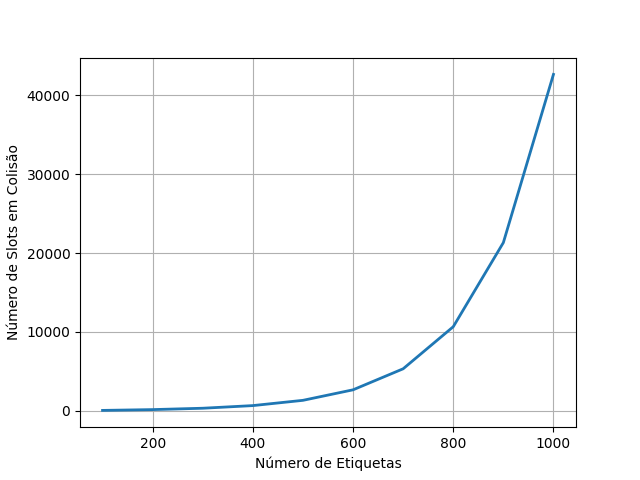
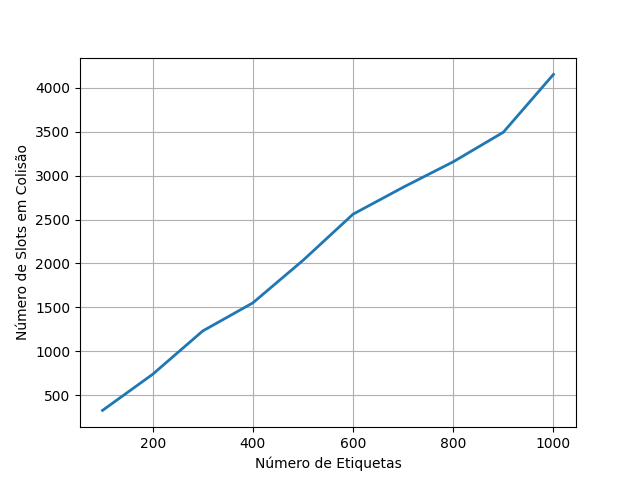
Update lower bound logic

diff --git a/core/estimators.py b/core/estimators.py
@@ -29,7 +29,6 @@ def simulate(
     list_average_time = []
 
     for index in range(1, int(max_tag_amount / initial_tag_amount) + 1):
-        # for index in range(int(max_tag_amount / initial_tag_amount)):
         tag_ammount = index * tag_increment_interval
         list_tags_interval.append(tag_ammount)
 
@@ -40,6 +39,7 @@ def simulate(
         average_time = 0
 
         for repetition in range(max_repetition):
+            frameSize = initial_frame_size
 
             start_time = time.time()
             if estimator == 0:
@@ -48,7 +48,7 @@ def simulate(
                     interaction_idles,
                     interaction_collisions,
                     interaction_success,
-                ) = lower_bound(tag_ammount, initial_frame_size)
+                ) = lower_bound(tag_ammount, frameSize)
                 average_slots += interaction_slots
                 average_idles += interaction_idles
                 average_collisions += interaction_collisions
@@ -59,21 +59,11 @@ def simulate(
             interaction_time = end_time - start_time
             average_time += interaction_time
 
-        list_average_slots.append(
-            sum(list_average_slots) + (average_slots / max_repetition)
-        )
-        list_average_idles.append(
-            sum(list_average_idles) + (average_idles / max_repetition)
-        )
-        list_average_collisions.append(
-            sum(list_average_collisions) + (average_collisions / max_repetition)
-        )
-        list_average_success.append(
-            sum(list_average_success) + (average_success / max_repetition)
-        )
-        list_average_time.append(
-            sum(list_average_time) + (average_time / max_repetition)
-        )
+        list_average_slots.append(average_slots / max_repetition)
+        list_average_idles.append(average_idles / max_repetition)
+        list_average_collisions.append(average_collisions / max_repetition)
+        list_average_success.append(average_success / max_repetition)
+        list_average_time.append(average_time / max_repetition)
 
         print(
             list_tags_interval,
@@ -142,8 +132,8 @@ def lower_bound(
     total_collisions = 0
     total_success = 0
 
-    slots = [0] * frameSize
-    while frameSize:
+    slots = [0] * 2000
+    while tag_ammount > 0:
         total_slots += frameSize
 
         # Fulfill slots
@@ -159,11 +149,11 @@ def lower_bound(
                 total_idles += 1
             elif slots[f] == 1:
                 local_success += 1
-            elif slots[f] >= 2:
+            else:
                 local_collisions += 1
 
         tag_ammount -= local_success
-        frameSize = int(local_collisions / 2)
+        frameSize = local_collisions * 2
         total_collisions += local_collisions
         total_success += local_success
 
